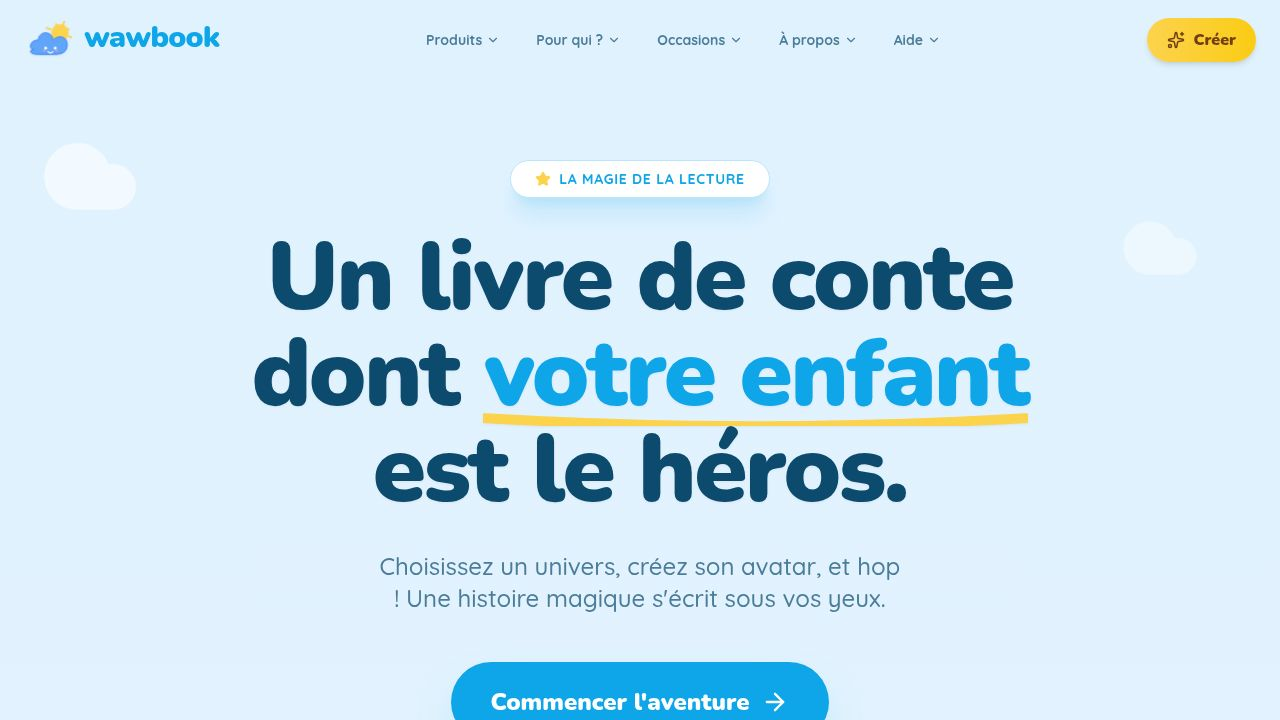
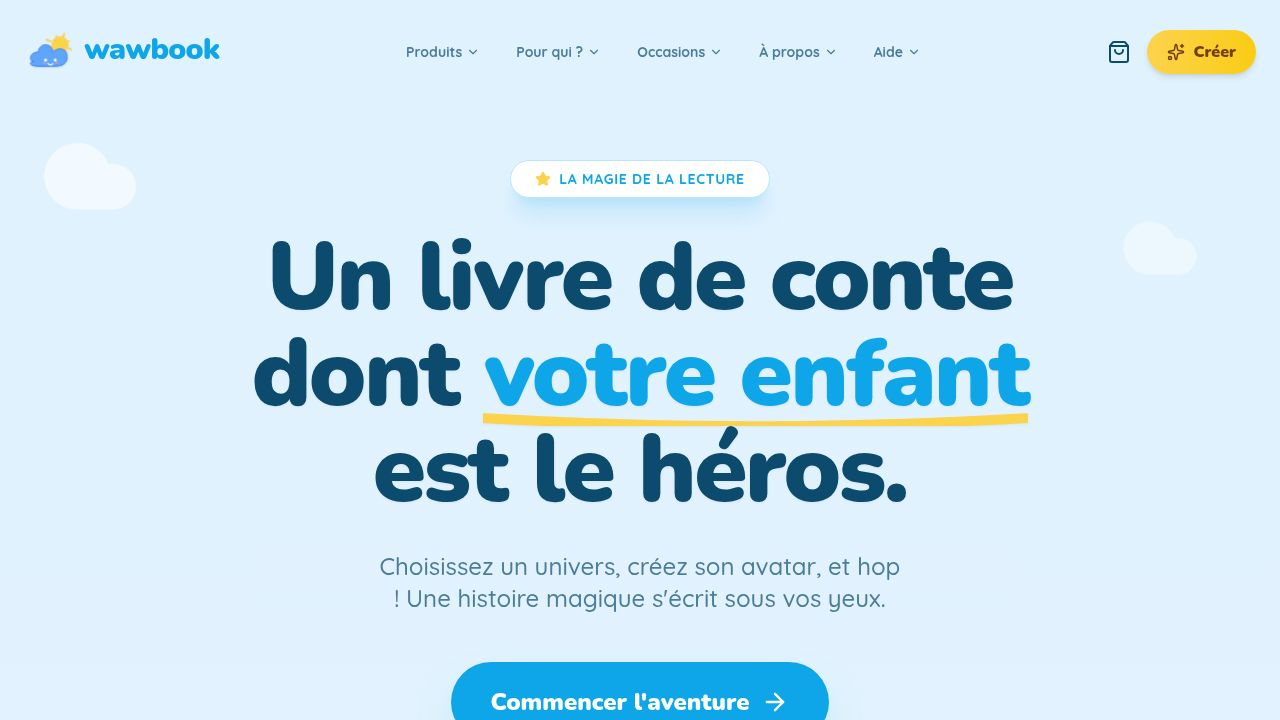
Redirect users to the cart page after adding a book
Update BookPreview component to use `setLocation` from `wouter` for navigation to the cart page after a successful add to cart action.

Replit-Commit-Author: Agent
Replit-Commit-Session-Id: 61226b35-f634-4040-9384-f4af2bef6e8b
Replit-Commit-Checkpoint-Type: full_checkpoint
Replit-Commit-Event-Id: 85fb40e6-ade7-42cc-8e29-d5dd92b58783
Replit-Commit-Screenshot-Url: https://storage.googleapis.com/screenshot-production-us-central1/cd6577c1-2123-40df-b260-e70cbb77d64a/61226b35-f634-4040-9384-f4af2bef6e8b/blm7jmD
Replit-Helium-Checkpoint-Created: true

diff --git a/client/src/components/BookPreview.tsx b/client/src/components/BookPreview.tsx
@@ -1,5 +1,6 @@
 import React, { useState, useEffect } from 'react';
 import { ChevronLeft, ChevronRight, ArrowLeft, Cloud, Heart, Settings, BookOpen, Check, ArrowRight } from 'lucide-react';
+import { useLocation } from 'wouter';
 import { Story, BookConfig } from '../types';
 import { useBooks } from '../context/BooksContext';
 import { useCart } from '../context/CartContext';
@@ -18,6 +19,7 @@ interface BookPreviewProps {
 const BookPreview: React.FC<BookPreviewProps> = ({ story, config, onReset, onStart, onAdminClick }) => {
   const { books } = useBooks();
   const { addToCart } = useCart();
+  const [, setLocation] = useLocation();
   const book = books.find(b => b.name === story.title);
 
   const [currentView, setCurrentView] = useState(0);
@@ -50,7 +52,10 @@ const BookPreview: React.FC<BookPreviewProps> = ({ story, config, onReset, onSta
             btn.innerHTML = originalText;
             btn.classList.remove('bg-green-500', 'hover:bg-green-600');
             btn.classList.add('bg-cloud-blue', 'hover:bg-cloud-deep');
-        }, 2000);
+            
+            // Redirect to cart
+            setLocation('/cart');
+        }, 1000);
     }
   };
 
